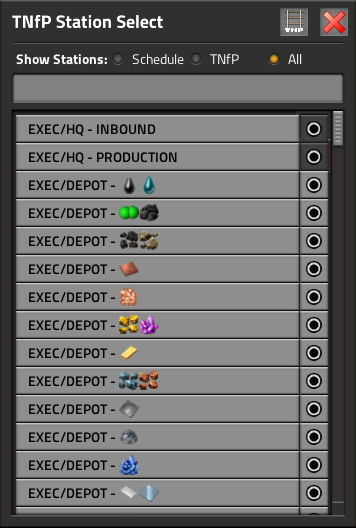
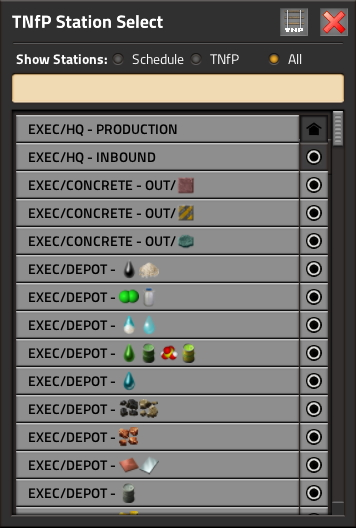
- update documentation

Changed region(s): [[0.0309, 0.1212, 0.9888, 1.0]]

diff --git a/README.md b/README.md
@@ -16,12 +16,13 @@ The station select dialog provides a quick way of moving between stations and ca
 &nbsp;
 ![TNfP Station Select Search](https://leehuk.github.io/factorio-tnfp/docs/images/tnfp-screenshot-stationselect-search.jpg)
 
-* Quickly filter between stations in the trains schedules, TNfP designated stations or all stations.
-* Filter the list of stations further via the search bar.
-* Pin stations to the top of the 'all stations' list.
 * Selecting a station will temporarily add it to the trains schedule and dispatch the train there, where it will wait for the player to exit before resuming its previous schedule.
+* Quickly filter between stations in the trains schedules, TNfP designated stations or all stations.  Mod setting controls the default.
+* Filter the list of stations further via the search bar.
+* Submit the search bar with enter, and the first station in the list will be selected.
+* Home stations can be pinned to the very top of the 'all stations' and 'tnfp stations' lists via a circuit signal.
+* Any station can be pinned to the top of the 'all stations' list via the GUI.
 * The railtool button will provide a railtool and open the map, allowing the train to be dispatched to any valid rail segment.
-* Mod setting to control the default filter
 
 ### TNfP Network
 If one or more trains are assigned into a TNfP network they can be automatically dispatched to the players location using the two shortcuts:
@@ -35,7 +36,7 @@ If one or more trains are assigned into a TNfP network they can be automatically
 ### Misc
 Miscellaneous features:
 
-* Adds a custom input control for switching the current train to manual mode.
+* Adds a custom input control for switching the current train to manual mode.  This also works for a train which has just arrived after dispatch.
 
 ### TNfP Network Creation
 Trains are available for players if they have a train stop marked for TNfP use anywhere in their schedule, which is done via a single combinator signal.
@@ -63,13 +64,20 @@ The railtool provides a way of creating temporary train stops and is used by sel
 * When not onboard a train, a new temporary stop will be created and a player train will be dispatched there from the TNfP network.
 * To remove a rail tool from your inventory, drop it on the ground near the player (default 'z') and it will be automatically destroyed.
 
+### TNfP Home Station
+The 'TNfP Home Station' is an additional circuit signal found under 'Signals'.  When this signal is provided to a train stop, that train stop becomes marked as a home station.
+
+![TNfP Combinator Home](https://leehuk.github.io/factorio-tnfp/docs/images/tnfp-screenshot-combinator-home.jpg)
+
+Home stations appear at the very top of the 'all stations' and 'tnfp stations' lists in the Station Select Dialog above pinned stations, allowing them to be quickly selected for dispatch.
+
 ### Important Notes
 This mod should be mostly stable for both single player and multiplayer.  Bug reports, feature requests or any comments are preferred via [github.com](https://github.com/leehuk/factorio-tnfp/) or via the forum.  Please include the crash log and version information about both factorio and the mod in bug reports.
 
 TNfP should be compatible with all mods relating to trains, providing they don't change train schedules or add custom types of train stops.  When used with mods which add custom types of train stops, TNfP will work as follows:
 
 * LTN (Logistic Train Network): TNfP will dispatch to any stop except depots, which are ignored due to conflicts with scheduling trains.  (Thanks to Optera for assistance).
-* TSM (Train Supply Manager): TNfP will dispatch to 'Requester' stops, but will completely ignore 'Supplier' stops due to conflicts with scheduling trains.
+* TSM (Train Supply Manager): TNfP will completely ignore TSM stops.  Suppliers conflict by altering trains schedules, and requesters conflict as TNfP interferes with the train counter logic.
 * Default: TNfP uses a configuration option controlling whether stops are considered safe to dispatch to (and thus ignored) or not.
 
 ### Technical Information
@@ -102,6 +110,8 @@ If the station selection dialog is closed or the player exits the train, it will
 #### Redispatch Behaviour
 
 When a player has selected an onward destination, TNfP will add the new station with a standard station wait condition of 'Passenger Not Present'.  This station will then remain in the schedule until it becomes true (i.e. the passenger leaves the train), or the passenger selects another onward destination.
+
+If the station is already in the trains schedule, the station wait conditions will not be altered.  Additionally if it is a tnfp train and the redispatch station is already in the trains schedule, it will not resume its previous schedule on arrival but will instead remain at the redispatch station under its normal wait conditions.
 
 #### Temporary Station Cleanup
 
